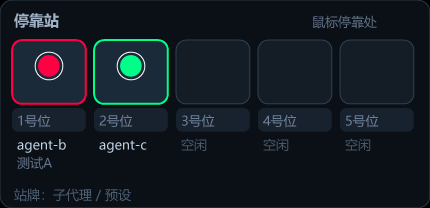
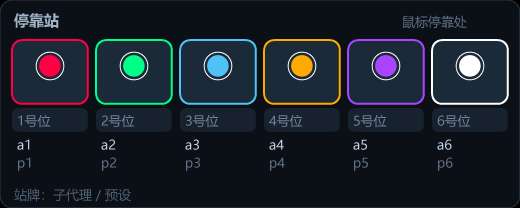
feat(P7): the dock sizes itself from the number of cursors
Before any zoom work, the geometry now comes from the berth count, so adding cursors
grows the strip instead of overflowing it - the same mistake that made panel zoom
fail twice would otherwise simply repeat here.

  dock_width(n) = 24 + n*76 + (n-1)*8, clamped to 3..12 berths
  height is fixed at 208 for now

The dock recreates its canvas and resizes its own window when the count changes, so
the canvas and the window can never disagree (which is what made compose() produce
nothing at a mismatched width).

Measured: a 2-entry file clamps to 3 berths and gives 268 wide; a 6-entry file gives
520 wide (24 + 6*76 + 5*8). The capture shows six berths with six colour-framed dots
and six plates a1..a6 with presets p1..p6.

Also fixed: the berth loader still capped at the old fixed 5, so a sixth cursor was
silently shown as 空闲.

diff --git a/overlay/src/main.rs b/overlay/src/main.rs
@@ -86,8 +86,19 @@ const GRAB: i32 = 40; // side of the clickable grab hotspot at the cursor tip
 /// The minimap runs as a second instance of this binary (`--map`), drawn into the
 /// same window class that already works instead of a new one.
 const DOCK_W: i32 = 430;
-const DOCK_H: i32 = 208;
 const DOCK_SLOTS: usize = 5;
+/// Berth geometry, all derived from the count so the strip always fits.
+const BERTH_W: i32 = 76;
+const BERTH_GAP: i32 = 8;
+const DOCK_PAD: i32 = 12;
+const DOCK_MIN: usize = 3;
+const DOCK_MAX: usize = 12;
+const DOCK_H: i32 = 208;
+
+fn dock_width(n: usize) -> i32 {
+    let n = n.clamp(DOCK_MIN, DOCK_MAX) as i32;
+    DOCK_PAD * 2 + n * BERTH_W + (n - 1) * BERTH_GAP
+}
 const DOCK_X: i32 = 1068;
 const DOCK_Y: i32 = 700;
 
@@ -115,26 +126,41 @@ struct Berth {
 }
 
 static BERTHS: std::sync::OnceLock<std::sync::Mutex<Vec<Berth>>> = std::sync::OnceLock::new();
+
+/// Berth count from the published file; the dock sizes itself from this.
+fn dock_berth_count() -> usize {
+    let Some(path) = DOCK_FILE.get() else {
+        return DOCK_MIN;
+    };
+    let Ok(raw) = std::fs::read_to_string(path) else {
+        return DOCK_MIN;
+    };
+    let Ok(v) = serde_json::from_str::<serde_json::Value>(&raw) else {
+        return DOCK_MIN;
+    };
+    v.as_array().map(|a| a.len()).unwrap_or(DOCK_MIN).clamp(DOCK_MIN, DOCK_MAX)
+}
 /// Optional berth file, set with `--slots <path>`.
 static DOCK_FILE: std::sync::OnceLock<String> = std::sync::OnceLock::new();
 
 fn berths() -> &'static std::sync::Mutex<Vec<Berth>> {
-    BERTHS.get_or_init(|| std::sync::Mutex::new(vec![Berth::default(); DOCK_SLOTS]))
+    BERTHS.get_or_init(|| std::sync::Mutex::new(vec![Berth::default(); DOCK_MAX]))
 }
 
-unsafe fn draw_dock_surface(cv: &Canvas) {
-    let full = rect(0, 0, DOCK_W, DOCK_H);
+unsafe fn draw_dock_surface(cv: &Canvas, count: usize) {
+    let dock_w = dock_width(count);
+    let full = rect(0, 0, dock_w, DOCK_H);
     cv.fill_round(full, 12, 0x0B1016);
     cv.stroke_round(full, 12, 0x2A3542, 1);
     cv.text_at(cv.fonts.title, 14, 10, "停靠站", 0x9FB2C6);
-    cv.text_at(cv.fonts.label, DOCK_W - 118, 13, "鼠标停靠处", 0x5F7186);
+    cv.text_at(cv.fonts.label, dock_w - 118, 13, "鼠标停靠处", 0x5F7186);
 
     let mut held: Vec<Berth> = berths().lock().map(|b| b.clone()).unwrap_or_default();
     if let Some(path) = DOCK_FILE.get() {
         if let Ok(raw) = std::fs::read_to_string(path) {
             if let Ok(v) = serde_json::from_str::<serde_json::Value>(&raw) {
                 if let Some(list) = v.as_array() {
-                    for (i, b) in held.iter_mut().enumerate().take(DOCK_SLOTS) {
+                    for (i, b) in held.iter_mut().enumerate().take(DOCK_MAX) {
                         match list.get(i) {
                             Some(slot) => {
                                 *b = Berth {
@@ -151,10 +177,10 @@ unsafe fn draw_dock_surface(cv: &Canvas) {
             }
         }
     }
-    let pad = 12;
-    let gap = 8;
-    let w = (DOCK_W - pad * 2 - gap * (DOCK_SLOTS as i32 - 1)) / DOCK_SLOTS as i32;
-    for i in 0..DOCK_SLOTS {
+    let pad = DOCK_PAD;
+    let gap = BERTH_GAP;
+    let w = BERTH_W;
+    for i in 0..count.clamp(DOCK_MIN, DOCK_MAX) {
         let x = pad + i as i32 * (w + gap);
         let y = 40;
         let berth = rect(x, y, x + w, y + 64);
@@ -2735,7 +2761,7 @@ fn handle_line(line: &str) {
         "dock_slots" => {
             if let Some(list) = v.get("slots").and_then(|x| x.as_array()) {
                 if let Ok(mut berths) = berths().lock() {
-                    for (i, b) in berths.iter_mut().enumerate().take(DOCK_SLOTS) {
+                    for (i, b) in berths.iter_mut().enumerate().take(DOCK_MAX) {
                         match list.get(i) {
                             Some(slot) => {
                                 let agent = slot
@@ -3134,7 +3160,8 @@ fn main() {
 
         let cursor_cv = Canvas::new(W, H, SS);
         let map_cv = Canvas::new(MAP_W, MAP_H, SS);
-        let dock_cv = Canvas::new(DOCK_W, DOCK_H, SS);
+        let mut dock_cv = Canvas::new(DOCK_W, DOCK_H, SS);
+        let mut dock_cv_w = DOCK_W;
         let mut panel_cv = Canvas::new_scaled(
             PW,
             PH_MAX,
@@ -3206,9 +3233,29 @@ fn main() {
 
             if DOCK_MODE.load(std::sync::atomic::Ordering::Relaxed) {
                 let h = { st.lock().unwrap().hwnd };
+                let count = dock_berth_count();
+                let want_w = dock_width(count);
                 unsafe {
-                    draw_dock_surface(&dock_cv);
-                    dock_cv.present(h, DOCK_W, DOCK_H, None, 1.0);
+                    if want_w != dock_cv_w {
+                        // canvas and window both follow the berth count, so adding
+                        // cursors grows the strip instead of overflowing it
+                        dock_cv = Canvas::new(want_w, DOCK_H, SS);
+                        dock_cv_w = want_w;
+                        let mut r = RECT::default();
+                        let _ = GetWindowRect(hwnd_of(h), &mut r);
+                        let _ = SetWindowPos(
+                            hwnd_of(h),
+                            windows::Win32::UI::WindowsAndMessaging::HWND_TOP,
+                            r.left,
+                            r.top,
+                            want_w,
+                            DOCK_H,
+                            SWP_NOACTIVATE | SET_WINDOW_POS_FLAGS(0x0040),
+                        );
+                        logline!("INFO", "dock resize to {want_w}x{DOCK_H} for {count} berths");
+                    }
+                    draw_dock_surface(&dock_cv, count);
+                    dock_cv.present(h, want_w, DOCK_H, None, 1.0);
                 }
                 std::thread::sleep(std::time::Duration::from_millis(400));
                 continue;
